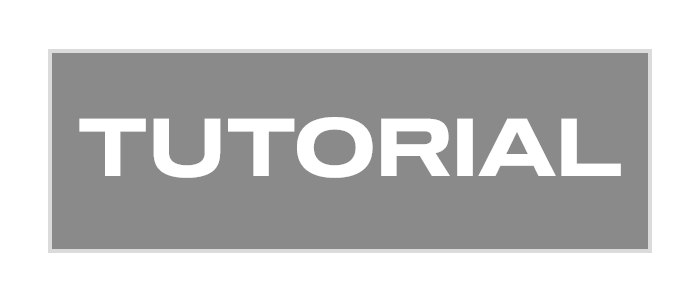
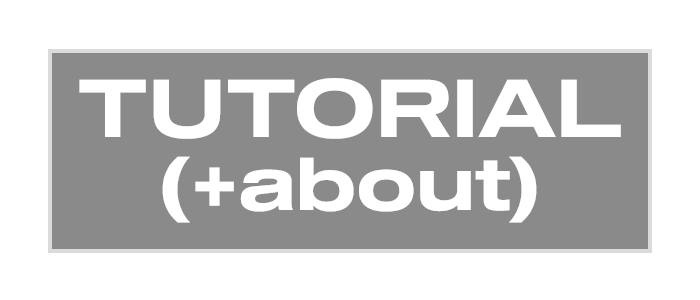
sync

Changed region(s): [[0.09, 0.24, 0.9, 0.75]]

diff --git a/pumpAndDumpGame/src/pumpAndDumpGame/PumpAndDumpGame.java b/pumpAndDumpGame/src/pumpAndDumpGame/PumpAndDumpGame.java
@@ -35,7 +35,7 @@ public class PumpAndDumpGame extends JPanel implements Runnable, KeyListener, Mo
 	final int TUTORIAL = -1, MAINMENU = 0, SAVESELECT = 1, STOCKLIST = 2, TRADINGSCREEN = 3;
 	
 	Color darkGray = new Color(22, 22, 22);
-	Color darkGrayTransparent = new Color(22, 22, 22, 220);
+	Color darkGrayTransparent = new Color(22, 22, 22, 240);
 	Color backGround = new Color(48, 49, 51);
 	Color darkGreen = new Color(66, 176, 78);
 	Color darkRed = new Color(187, 46, 40);
@@ -135,7 +135,7 @@ public class PumpAndDumpGame extends JPanel implements Runnable, KeyListener, Mo
 		
 		//load tutorial
 		tutorialArrows = Toolkit.getDefaultToolkit().getImage("gameFiles/tutorial/arrows.png");
-		for(int i = 1; i <= 3; i++) {
+		for(int i = 1; i <= 4; i++) {
 			tutorial.add(Toolkit.getDefaultToolkit().getImage
 					("gameFiles/tutorial/" + String.format("%02d", i) + ".png"));
 		}
